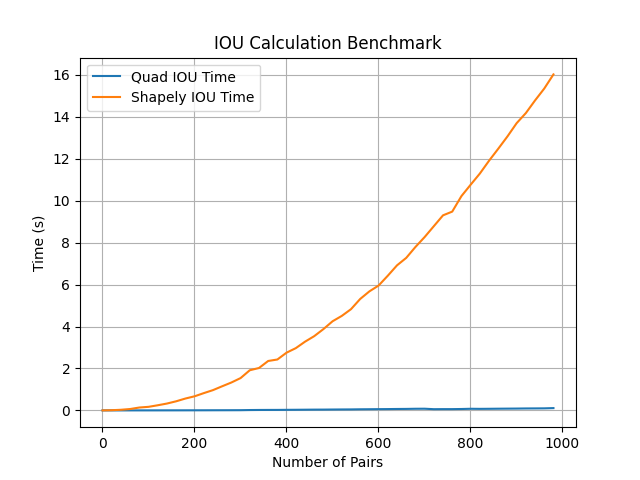
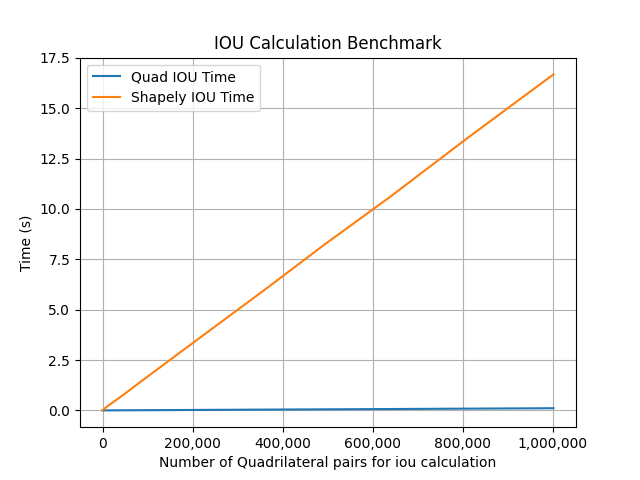
cleanup visualize

diff --git a/tryout_scripts/visualize.py b/tryout_scripts/visualize.py
@@ -5,6 +5,7 @@ import time
 from shapely.geometry import Polygon
 from quad_iou import calculate_iou
 import matplotlib.pyplot as plt
+from matplotlib.ticker import FuncFormatter
 
 def generate_random_point():
     return (random.uniform(0, 100), random.uniform(0, 100))
@@ -29,29 +30,6 @@ def is_convex(quadrilateral):
         signs.append(np.sign(cross_product(o, a, b)))
 
     return all(s == signs[0] for s in signs)
-
-def benchmark_iou_calculations(num_pairs):
-    quad1_list = [generate_random_quadrilateral() for _ in range(num_pairs)]
-    quad2_list = [generate_random_quadrilateral() for _ in range(num_pairs)]
-    quad1_tensors = torch.tensor(quad1_list).reshape(-1, 4, 2).double()
-    quad2_tensors = torch.tensor(quad2_list).reshape(-1, 4, 2).double()
-    polys1 = [Polygon(quad) for quad in quad1_list]
-    polys2 = [Polygon(quad) for quad in quad2_list]
-
-    # Measure quad_iou time
-    start_time = time.time()
-    for i in range(num_pairs):
-        
-        (quad1_tensors[i], quad2_tensors[i], True)
-    quad_iou_time = time.time() - start_time
-
-    # Measure shapely_iou time
-    start_time = time.time()
-    for i in range(num_pairs):
-        shapely_iou(polys1[i], polys2[i])
-    shapely_iou_time = time.time() - start_time
-
-    return quad_iou_time, shapely_iou_time
 
 def shapely_iou(polys1, polys2):
     intersection_areas = [[intersected_poly.area for intersected_poly in poly] for poly in [i.intersection(polys2) for i in polys1]]
@@ -83,31 +61,27 @@ def benchmark_iou_calculations(num_pairs):
     return quad_iou_time, t2 - t1
 
 def main():
-    num_pairs_list = [i for i in range(1, 1001, 20)]
+    num_pairs_list = [i for i in range(1, 1002, 100)]
     results = {"num_pairs": [], "quad_iou_time": [], "shapely_iou_time": []}
 
     for num_pairs in num_pairs_list:
         quad_iou_time, shapely_iou_time = benchmark_iou_calculations(num_pairs)
-        results["num_pairs"].append(num_pairs)
+        results["num_pairs"].append(num_pairs ** 2)
         results["quad_iou_time"].append(quad_iou_time)
         results["shapely_iou_time"].append(shapely_iou_time)
         print(f"{num_pairs} pairs -> quad_iou: {quad_iou_time:.6f} s, shapely: {shapely_iou_time:.6f} s")
 
-    # Save results to a file for later plotting
-    with open("benchmark_results.txt", "w") as f:
-        f.write(str(results))
-
-    # Plotting the results
     plt.figure()
     plt.plot(results["num_pairs"], results["quad_iou_time"], label='Quad IOU Time')
     plt.plot(results["num_pairs"], results["shapely_iou_time"], label='Shapely IOU Time')
-    plt.xlabel('Number of Pairs')
+    plt.xlabel('Number of Quadrilateral pairs for iou calculation')
     plt.ylabel('Time (s)')
     plt.title('IOU Calculation Benchmark')
     plt.legend()
     plt.grid(True)
+    formatter = FuncFormatter(lambda x, _: f'{int(x):,}')
+    plt.gca().xaxis.set_major_formatter(formatter)
 
-    # Save the figure
     plt.savefig("iou_benchmark_plot.png")
 
 if __name__ == "__main__":
